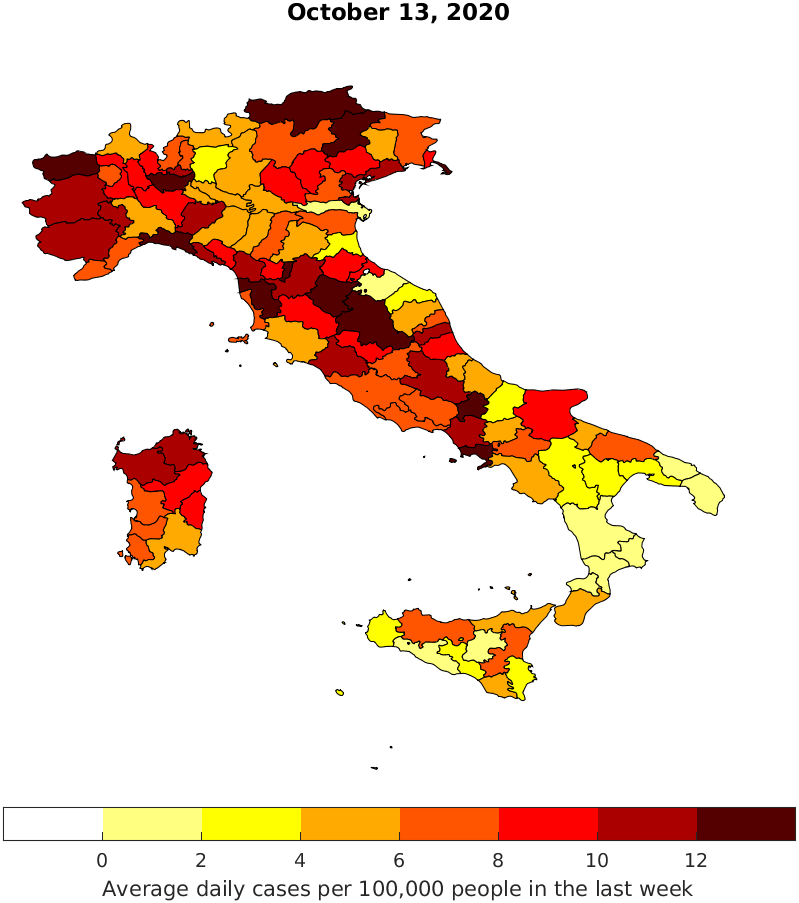
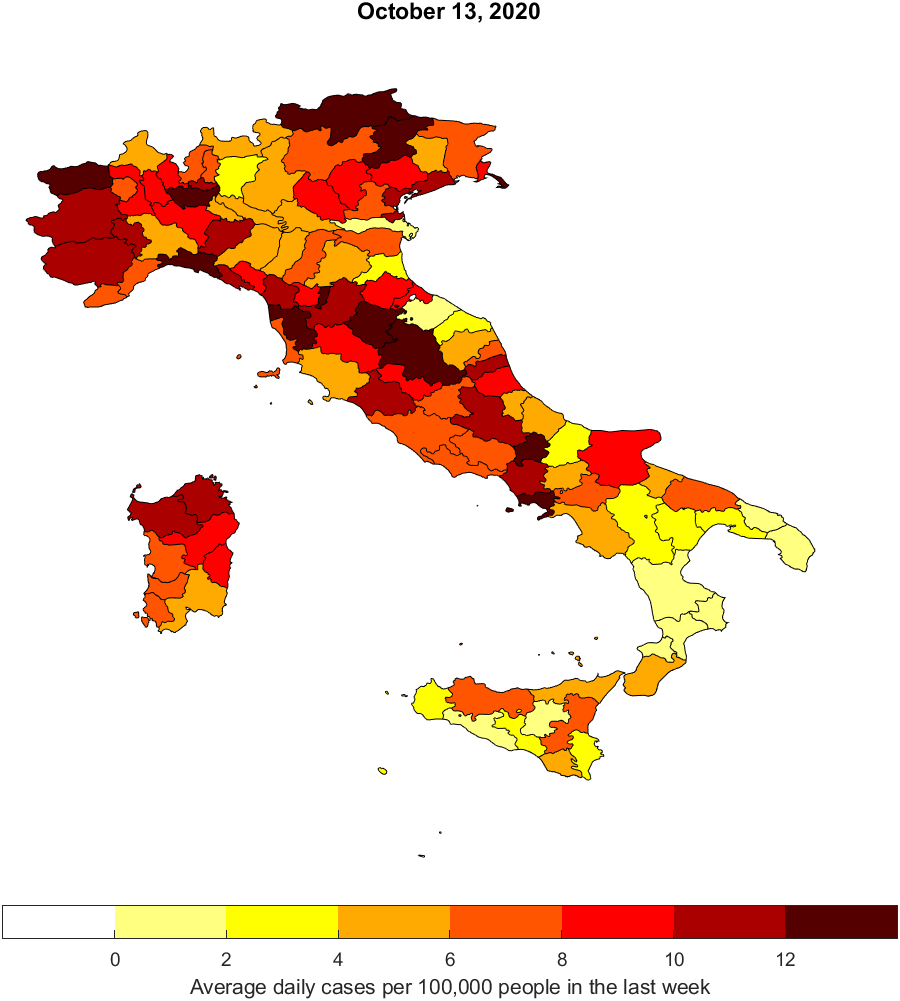
fprintf improved

diff --git a/matlab/main_covid_hotspots.m b/matlab/main_covid_hotspots.m
@@ -25,8 +25,8 @@ n_provs = size(prov_names, 1);     % Number of provinces
 % Get date
 
 % first_day_back = datetime('01-07-2020', 'InputFormat', 'dd-MM-yyyy');
-first_day_back = datetime('13-10-2020', 'InputFormat', 'dd-MM-yyyy');
-last_day_back = datetime('13-10-2020', 'InputFormat', 'dd-MM-yyyy');
+first_day_back = datetime('15-10-2020', 'InputFormat', 'dd-MM-yyyy');
+last_day_back = datetime('15-10-2020', 'InputFormat', 'dd-MM-yyyy');
 n_days_back = days(last_day_back - first_day_back);
 for days_back = 0:n_days_back
 
@@ -119,17 +119,20 @@ end
 %% Print report
 today
 
-fprintf('%20s%20s%20s\n', 'Regione', 'Media nuovi casi', 'x100000');
+fprintf('%6s%-20s%20s%10s\n', '# ', 'Regione', 'Media nuovi casi', 'x100000');
 for i = 1:n_regs
-    fprintf('%20s%20.2f%20.2f\n', ...
+    fprintf('%6s%-20s%20.2f%10.2f\n', ...
+        sprintf('%4d. ', i), ...
         reg_names{ind_reg_sort(i)}, ...
         new_cases_reg_avg(ind_reg_sort(i)), ...
         new_cases_reg_avg_100k(ind_reg_sort(i)));
 end
 fprintf('\n');
-fprintf('%25s%20s%20s\n', 'Provincia', 'Media nuovi casi', 'x100000');
+fprintf('\n');
+fprintf('%6s%-25s%20s%10s\n', '# ', 'Provincia', 'Media nuovi casi', 'x100000');
 for i = 1:n_provs
-    fprintf('%25s%20.2f%20.2f\n', ...
+    fprintf('%6s%-25s%20.2f%10.2f\n', ...
+        sprintf('%4d. ', i), ...
         prov_names{ind_prov_sort(i)}, ...
         new_cases_prov_avg(ind_prov_sort(i)), ...
         new_cases_prov_avg_100k(ind_prov_sort(i)));
@@ -150,7 +153,7 @@ end
 % Colormap intervals
 n_levels = 6;
 low_level = 0.;
-upp_level = 12.;
+upp_level = 24.;
 
 % Load map data
 map_folder = '../geo/';
